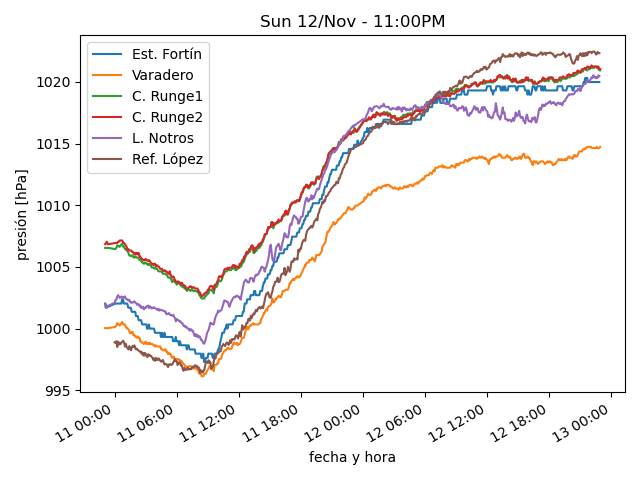
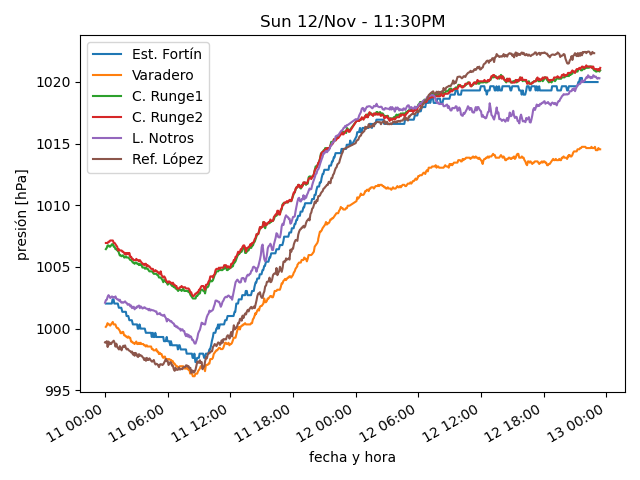
actualiza datos

diff --git a/estaciones/estacion4.html b/estaciones/estacion4.html
@@ -18,32 +18,32 @@
     </tr>
     <tr>
      <td class="stats_data">
-      10:54PM
+      11:24PM
      </td>
     </tr>
     <tr>
      <td class="stats_data">
-      3.1⁰C
+      3.0⁰C
      </td>
     </tr>
     <tr>
      <td class="stats_data">
-      -2.5⁰C
+      -2.4⁰C
      </td>
     </tr>
     <tr>
      <td class="stats_data">
-      67.2%
+      67.7%
      </td>
     </tr>
     <tr>
      <td class="stats_data">
-      1018.02hPa
+      1018.12hPa
      </td>
     </tr>
     <tr>
      <td class="stats_data">
-      1.8/3.0 km/hr SSW
+      3.1/4.8 km/hr SW
      </td>
     </tr>
     <tr>

diff --git a/estaciones/estacion2.html b/estaciones/estacion2.html
@@ -18,12 +18,12 @@
     </tr>
     <tr>
      <td class="stats_data">
-      10:54PM
+      11:24PM
      </td>
     </tr>
     <tr>
      <td class="stats_data">
-      4.4⁰C
+      4.2⁰C
      </td>
     </tr>
     <tr>
@@ -33,17 +33,17 @@
     </tr>
     <tr>
      <td class="stats_data">
-      70.9%
+      71.8%
      </td>
     </tr>
     <tr>
      <td class="stats_data">
-      1024.21hPa
+      1024.01hPa
      </td>
     </tr>
     <tr>
      <td class="stats_data">
-      4.8/7.4 km/hr W
+      7.7/10.6 km/hr W
      </td>
     </tr>
     <tr>

diff --git a/estaciones/estacion3.html b/estaciones/estacion3.html
@@ -18,22 +18,22 @@
     </tr>
     <tr>
      <td class="stats_data">
-      10:54PM
+      11:24PM
      </td>
     </tr>
     <tr>
      <td class="stats_data">
-      3.2⁰C
+      3.1⁰C
      </td>
     </tr>
     <tr>
      <td class="stats_data">
-      -1.4⁰C
+      -1.6⁰C
      </td>
     </tr>
     <tr>
      <td class="stats_data">
-      71.8%
+      71.6%
      </td>
     </tr>
     <tr>
@@ -43,7 +43,7 @@
     </tr>
     <tr>
      <td class="stats_data">
-      5.4/8.5 km/hr WSW
+      7.3/10.5 km/hr WSW
      </td>
     </tr>
     <tr>

diff --git a/estaciones/estacion1.html b/estaciones/estacion1.html
@@ -18,22 +18,22 @@
     </tr>
     <tr>
      <td class="stats_data">
-      10:49PM
+      11:09PM
      </td>
     </tr>
     <tr>
      <td class="stats_data">
-      3.8⁰C
+      3.4⁰C
      </td>
     </tr>
     <tr>
      <td class="stats_data">
-      -2.2⁰C
+      -2.5⁰C
      </td>
     </tr>
     <tr>
      <td class="stats_data">
-      65.0%
+      65.3%
      </td>
     </tr>
     <tr>
@@ -43,7 +43,7 @@
     </tr>
     <tr>
      <td class="stats_data">
-      5.8/11.3 km/hr W
+      4.2/10.2 km/hr W
      </td>
     </tr>
     <tr>

diff --git a/estaciones/estacion5.html b/estaciones/estacion5.html
@@ -18,7 +18,7 @@
     </tr>
     <tr>
      <td class="stats_data">
-      10:50PM
+      11:20PM
      </td>
     </tr>
     <tr>
@@ -38,7 +38,7 @@
     </tr>
     <tr>
      <td class="stats_data">
-      1023.03hPa
+      1022.86hPa
      </td>
     </tr>
     <tr>
